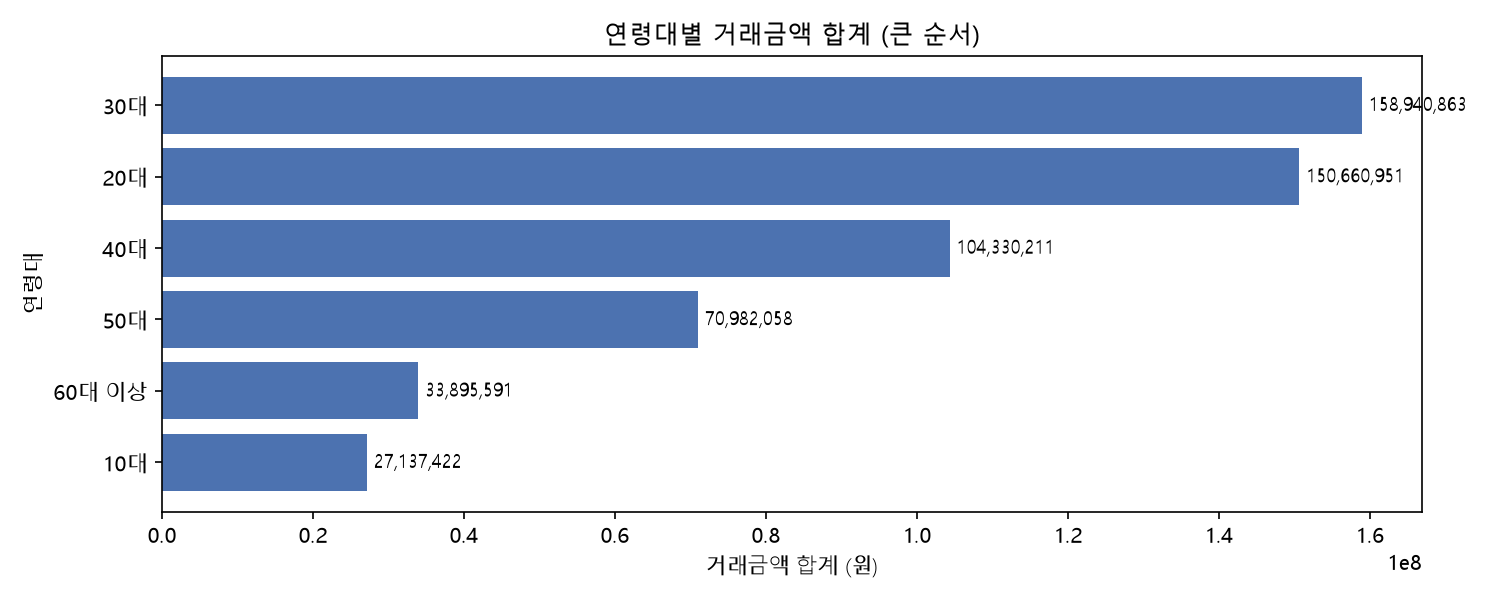
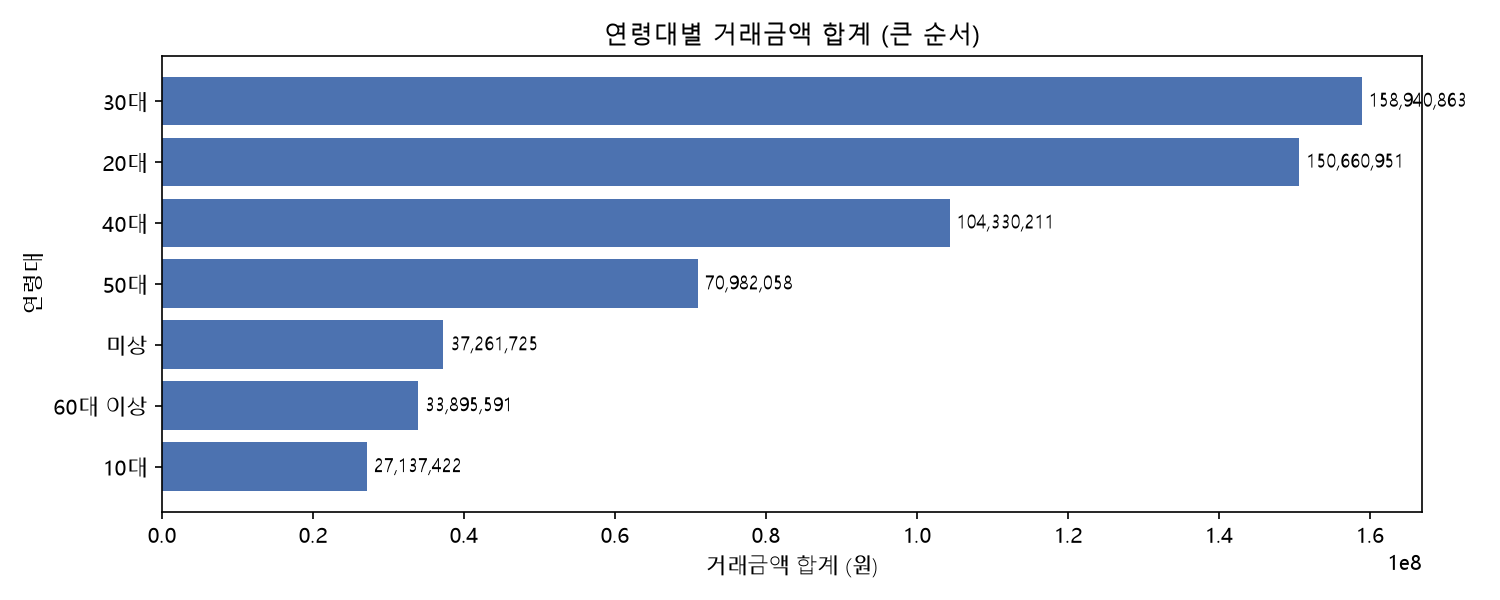
집계 CSV 5종 추가, 결측 포함 지역/연령대 차트 수정, 5단계 발견-의미-액션 분석 보고서 초안 작성

diff --git a/scripts/집계표_CSV출력.py b/scripts/집계표_CSV출력.py
@@ -1,0 +1,62 @@
+# 지금까지 만든 그래프들의 근거가 되는 집계 결과를 output 폴더에 CSV로 남기는 스크립트.
+# CLAUDE.md 규칙상 표는 output 폴더에 CSV(encoding=utf-8-sig)로 저장해야 하는데, 그동안은
+# md/docx 문서 안에만 표로 넣고 CSV로는 안 뽑아뒀어서 이번에 따로 뽑는다.
+# 음수 거래금액(25건)은 이상치 처리 지시에 따라 전부 제외하고 집계한다.
+
+import os
+import pandas as pd
+
+os.chdir(os.path.dirname(os.path.abspath(__file__)) + "/..")
+
+df = pd.read_csv(os.path.join("data", "01_핀테크결제_dirty.csv"), encoding="utf-8-sig")
+df = df[df["거래금액"] >= 0]
+
+output_dir = "output"
+os.makedirs(output_dir, exist_ok=True)
+
+
+def save(frame, name):
+    path = os.path.join(output_dir, name)
+    frame.to_csv(path, encoding="utf-8-sig")
+    print(f"저장: {path} ({len(frame)}행)")
+
+
+# 1. 업종별 거래금액 합계
+by_category = df.groupby("가맹점업종")["거래금액"].sum().sort_values(ascending=False)
+by_category.name = "거래금액_합계"
+save(by_category, "업종별_거래금액_합계.csv")
+
+# 2. 지역별 거래금액 합계
+# groupby 는 결측을 기본적으로 조용히 빼버려서 전체 합계가 안 맞게 되므로, 알수없음으로
+# 채워서 결측 건수도 표에 같이 남긴다 (CLAUDE.md: 결측이 있어도 컬럼을 분석에서 빼지 않음)
+by_region = df["지역"].fillna("알수없음")
+by_region = df.groupby(by_region)["거래금액"].sum().sort_values(ascending=False)
+by_region.name = "거래금액_합계"
+by_region.index.name = "지역"
+save(by_region, "지역별_거래금액_합계.csv")
+
+# 3. 결제수단별 거래금액 합계·건수·비중 (공백 표기 문제는 집계 직전에만 정리)
+df["결제수단_정리"] = df["결제수단"].str.strip().fillna("결측")
+by_payment_sum = df.groupby("결제수단_정리")["거래금액"].sum().sort_values(ascending=False)
+by_payment_count = df.groupby("결제수단_정리").size().reindex(by_payment_sum.index)
+by_payment = pd.DataFrame({
+    "거래금액_합계": by_payment_sum,
+    "건수": by_payment_count,
+    "비중(%)": (by_payment_sum / by_payment_sum.sum() * 100).round(2),
+})
+save(by_payment, "결제수단별_거래금액_합계.csv")
+
+# 4. 연령대별 거래금액 합계 (결측은 미상으로 채워서 합계에 포함)
+by_age = df["연령대"].fillna("미상")
+by_age = df.groupby(by_age)["거래금액"].sum().sort_values(ascending=False)
+by_age.name = "거래금액_합계"
+by_age.index.name = "연령대"
+save(by_age, "연령대별_거래금액_합계.csv")
+
+# 5. 연월별 거래금액 합계 추이
+month_df = df.dropna(subset=["거래일시"]).copy()
+month_df["거래일시"] = pd.to_datetime(month_df["거래일시"], format="mixed")
+month_df["연월"] = month_df["거래일시"].dt.to_period("M").astype(str)
+by_month = month_df.groupby("연월")["거래금액"].sum().sort_index()
+by_month.name = "거래금액_합계"
+save(by_month, "연월별_거래금액_합계.csv")

diff --git a/scripts/가로막대_지역결제수단연령대.py b/scripts/가로막대_지역결제수단연령대.py
@@ -20,9 +20,12 @@ output_dir = os.path.join("output", "charts")
 os.makedirs(output_dir, exist_ok=True)
 
 
-def draw_horizontal_bar(column, title, filename):
+def draw_horizontal_bar(column, title, filename, missing_label=None):
+    # groupby 는 결측을 기본적으로 조용히 빼버려서 전체 합계가 안 맞게 되므로, 결측이 있는
+    # 컬럼은 알수없음/미상으로 채워 넣어야 한다 (CLAUDE.md: 결측이 있어도 컬럼을 분석에서 빼지 않음)
+    series = df[column].fillna(missing_label) if missing_label else df[column]
     # 오름차순으로 정렬해야 barh 에서 위쪽에 가장 큰 값이 오게 된다 (큰 순서로 보이게 하는 핵심)
-    by_group = df.groupby(column)["거래금액"].sum().sort_values(ascending=True)
+    by_group = df.groupby(series)["거래금액"].sum().sort_values(ascending=True)
 
     print(f"{column}별 거래금액 합계 (큰 순서):")
     print(by_group.sort_values(ascending=False))
@@ -55,6 +58,6 @@ def draw_horizontal_bar(column, title, filename):
     print()
 
 
-draw_horizontal_bar("지역", "지역별 거래금액 합계 (큰 순서)", "지역별_거래금액_가로막대.png")
+draw_horizontal_bar("지역", "지역별 거래금액 합계 (큰 순서)", "지역별_거래금액_가로막대.png", missing_label="알수없음")
 draw_horizontal_bar("결제수단", "결제수단별 거래금액 합계 (큰 순서)", "결제수단별_거래금액_가로막대.png")
-draw_horizontal_bar("연령대", "연령대별 거래금액 합계 (큰 순서)", "연령대별_거래금액_가로막대.png")
+draw_horizontal_bar("연령대", "연령대별 거래금액 합계 (큰 순서)", "연령대별_거래금액_가로막대.png", missing_label="미상")

diff --git a/output/핀테크결제_분석보고서_초안.md b/output/핀테크결제_분석보고서_초안.md
@@ -1,0 +1,144 @@
+# 핀테크 결제 데이터 분석 보고서 (초안)
+
+데이터: `data/01_핀테크결제_dirty.csv` (음수 거래금액 25건 제외 후 집계)
+근거 표(CSV): `output/업종별_거래금액_합계.csv`, `output/지역별_거래금액_합계.csv`, `output/결제수단별_거래금액_합계.csv`, `output/연령대별_거래금액_합계.csv`, `output/연월별_거래금액_합계.csv`
+
+다섯 단계(업종 → 지역 → 결제수단 → 연령대 → 시간)로 나눠 살펴보고, 각 단계를 **발견 → 의미 → 액션** 순서로 정리한다.
+
+---
+
+## 1단계: 업종별 거래금액 합계
+
+![업종별 거래금액](charts/업종별_거래금액_가로막대.png)
+
+| 업종 | 거래금액 합계(원) |
+|---|---|
+| 여행 | 128,208,298 |
+| 쇼핑 | 122,386,699 |
+| 교육 | 104,255,218 |
+| 공과금 | 71,609,481 |
+| 식음료 | 48,574,950 |
+| 문화/여가 | 41,618,064 |
+| 의료 | 40,073,188 |
+| 기타 | 21,167,883 |
+| 교통 | 5,315,040 |
+
+**발견**: 여행(128,208,298원)이 1위, 교통(5,315,040원)이 최하위다. 1위가 최하위의 약 24배(128,208,298 ÷ 5,315,040 ≈ 24.1배)에 달한다.
+
+**의미**: 업종 간 거래 규모 격차가 매우 크다. 상위 3개 업종(여행·쇼핑·교육)만으로 전체 업종 합계(583,208,821원)의 절반을 넘는 구조다.
+
+**액션**: 여행·쇼핑·교육 3개 업종에 프로모션·제휴 리소스를 우선 배정하고, 교통처럼 총액이 작은 업종은 건수 대비 효과가 낮으므로 별도 전략(예: 소액 결제 묶음 상품) 검토가 필요하다.
+
+---
+
+## 2단계: 지역별 거래금액 합계
+
+![지역별 거래금액](charts/지역별_거래금액_가로막대.png)
+
+| 지역 | 거래금액 합계(원) |
+|---|---|
+| 서울 | 163,361,702 |
+| 경기 | 139,925,562 |
+| 부산 | 37,474,965 |
+| 인천 | 34,013,909 |
+| 대구 | 26,276,287 |
+| 알수없음(지역 결측) | 22,782,584 |
+| 경남 | 22,657,780 |
+| 경북 | 16,530,428 |
+| 충남 | 16,231,113 |
+| 광주 | 15,322,612 |
+| 대전 | 14,778,770 |
+| 전북 | 13,916,710 |
+| 충북 | 13,207,129 |
+| 울산 | 10,776,353 |
+| 강원 | 10,763,118 |
+| 전남 | 10,042,925 |
+| 제주 | 9,621,552 |
+| 세종 | 5,525,322 |
+
+**발견**: 서울·경기 두 지역 합계(163,361,702 + 139,925,562 = 303,287,264원)가 전체 지역 합계(583,208,821원)의 약 52.0%를 차지한다. 지역이 기록되지 않은 "알수없음" 거래도 22,782,584원(전체의 약 3.9%)으로, 세종을 제외한 다른 지방 지역들과 비슷하거나 더 큰 규모다.
+
+**의미**: 수도권(서울·경기) 쏠림이 뚜렷하다. 동시에 지역 결측 거래 규모가 작지 않아, 지역 정보 수집 품질을 개선하면 분석 정확도가 더 올라갈 여지가 있다.
+
+**액션**: 지역 기반 캠페인은 서울·경기 우선 배정이 합리적이다. 다만 지역 결측 3.9%가 왜 발생했는지(특정 결제 채널·시스템 문제인지) 원인 파악이 필요하다.
+
+---
+
+## 3단계: 결제수단별 거래금액 합계
+
+![결제수단별 거래금액 도넛차트](charts/결제수단별_거래금액_도넛차트.png)
+
+| 결제수단 | 거래금액 합계(원) | 건수 | 비중(%) |
+|---|---|---|---|
+| 신용카드 | 255,568,061 | 5,255 | 43.82 |
+| 체크카드 | 125,200,014 | 2,550 | 21.47 |
+| 계좌이체 | 93,764,209 | 1,892 | 16.08 |
+| 포인트결제 | 54,477,458 | 1,098 | 9.34 |
+| 휴대폰결제 | 35,706,040 | 730 | 6.12 |
+| 결측 | 18,493,039 | 335 | 3.17 |
+
+(표기 앞뒤 공백은 집계 직전에 정리했다. 원본 표기 그대로 집계한 버전은 `charts/결제수단별_거래금액_가로막대.png` 참고.)
+
+**발견**: 신용카드가 43.82%로 압도적 1위이고, 신용카드+체크카드 두 수단이 합계 65.29%(255,568,061 + 125,200,014 = 380,768,075원 ÷ 583,208,821원)를 차지한다.
+
+**의미**: 카드 기반 결제(신용+체크)가 이 데이터셋 거래금액의 약 3분의 2를 차지한다. 계좌이체·포인트결제·휴대폰결제는 각각 20% 미만이다.
+
+**액션**: 카드 결제 인프라(수수료 협상, 부정거래 탐지 등)에 우선순위를 두고, 결측 3.17%(18,493,039원)에 해당하는 결제수단 미기록 거래의 원인도 함께 점검할 필요가 있다.
+
+---
+
+## 4단계: 연령대별 거래금액 합계
+
+![연령대별 거래금액](charts/연령대별_거래금액_가로막대.png)
+
+| 연령대 | 거래금액 합계(원) |
+|---|---|
+| 30대 | 158,940,863 |
+| 20대 | 150,660,951 |
+| 40대 | 104,330,211 |
+| 50대 | 70,982,058 |
+| 미상 | 37,261,725 |
+| 60대 이상 | 33,895,591 |
+| 10대 | 27,137,422 |
+
+**발견**: 20대+30대 합계(150,660,951 + 158,940,863 = 309,601,814원)가 연령대별 전체 합계(583,208,821원)의 약 53.1%를 차지한다. 연령대 "미상"도 37,261,725원(60대 이상보다 큰 규모)이다.
+
+**의미**: 20~30대가 핵심 소비층이며, 연령이 올라갈수록(40대 이후) 거래금액이 줄어드는 경향이 뚜렷하다. 연령 미상 거래 규모도 무시할 수 없는 수준이다.
+
+**액션**: 20~30대 타깃 마케팅에 집중하되, 연령 정보가 없는 거래(미상)가 특정 채널에 몰려 있는지 추가로 확인해 데이터 수집 절차를 보완할 필요가 있다.
+
+---
+
+## 5단계: 연월별 거래금액 추이
+
+![연월별 거래금액 라인차트](charts/연월별_거래금액_라인차트.png)
+
+| 연월 | 거래금액 합계(원) |
+|---|---|
+| 2024-01 | 48,120,532 |
+| 2024-02 | 45,813,712 |
+| 2024-03 | 55,221,966 |
+| 2024-04 | 45,854,488 |
+| 2024-05 | 51,870,607 |
+| 2024-06 | 47,613,765 |
+| 2024-07 | 50,771,756 |
+| 2024-08 | 46,801,567 |
+| 2024-09 | 46,388,135 |
+| 2024-10 | 43,486,878 |
+| 2024-11 | 51,035,710 |
+| 2024-12 | 50,229,705 |
+
+**발견**: 최댓값은 2024-03(55,221,966원), 최솟값은 2024-10(43,486,878원)으로 차이는 11,735,088원이다. 12개월 내내 43.5M~55.2M원 사이에서 등락한다.
+
+**의미**: 뚜렷한 상승·하락 추세나 계절성 패턴 없이 비교적 안정적으로 움직인다. 특정 달에 급격한 이벤트성 변화는 관찰되지 않는다.
+
+**액션**: 시간 요인보다 업종·지역·연령 요인이 거래금액 차이를 설명하는 데 더 중요하므로, 예산·프로모션 계획을 월별 계절성보다 상위 업종/지역/연령 세그먼트 중심으로 세우는 것이 합리적이다.
+
+---
+
+## 결론
+
+1. **집중해야 할 3대 축**: 여행/쇼핑 업종, 서울/경기 지역, 20~30대 연령 — 세 축 모두 전체 거래금액의 절반 이상을 차지하는 핵심 세그먼트다.
+2. **결제 인프라**: 신용카드+체크카드가 65.29%로 카드 결제 중심 구조다.
+3. **시간 축은 상대적으로 평이하다**: 월별 변동폭이 12M원 미만으로 크지 않아, 시즌 전략보다 세그먼트 전략이 우선이다.
+4. **데이터 품질 이슈**: 지역 결측(22,782,584원, 3.9%), 연령 미상(37,261,725원), 결제수단 결측(18,493,039원, 3.17%) 규모가 작지 않으므로, 다음 단계로 이 결측들의 발생 원인을 추적하는 것을 제안한다.
